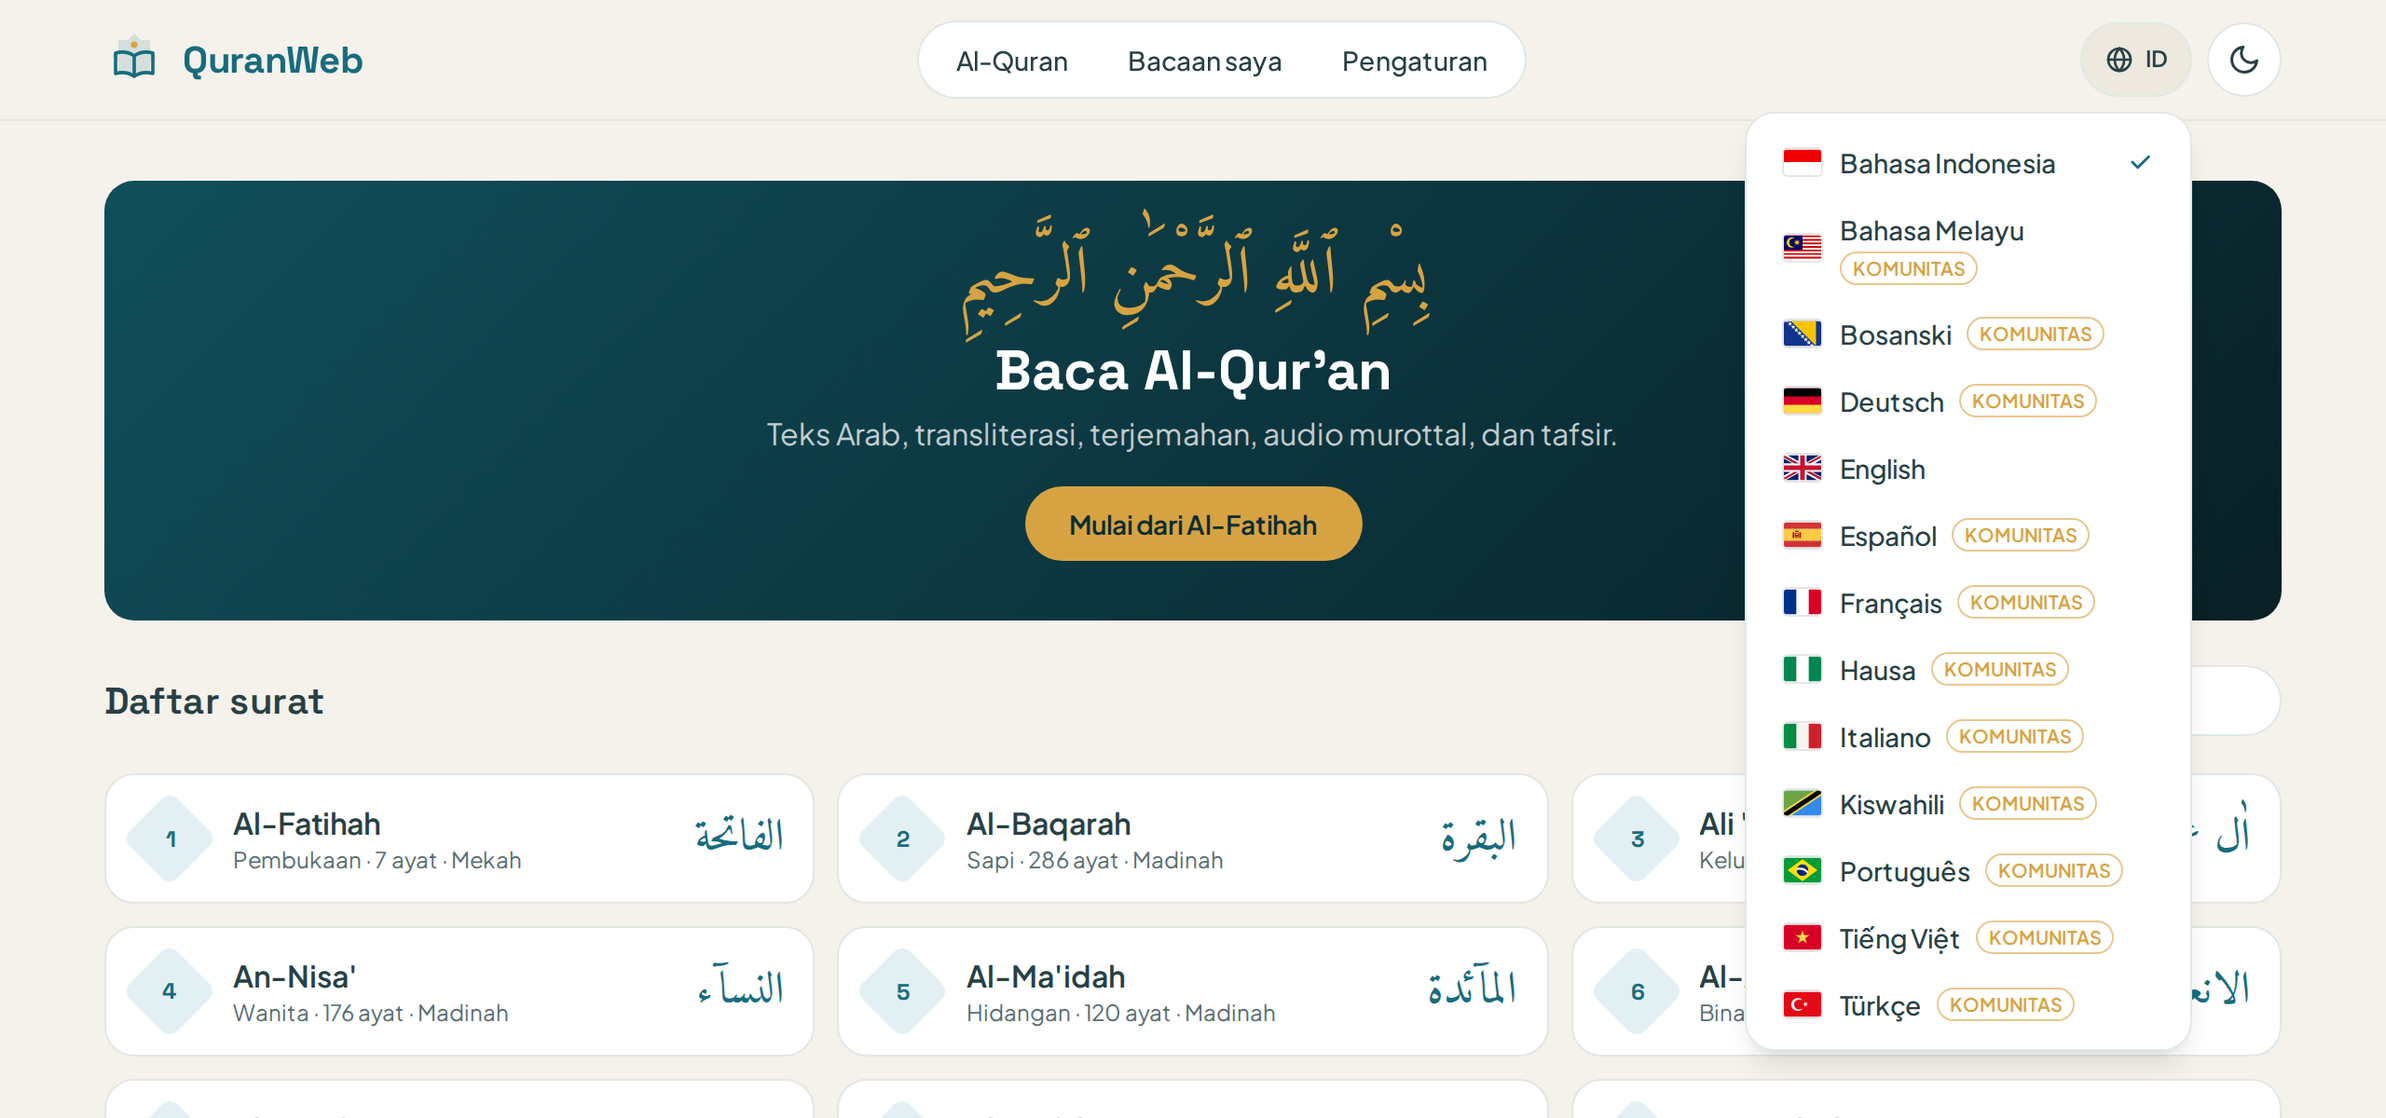
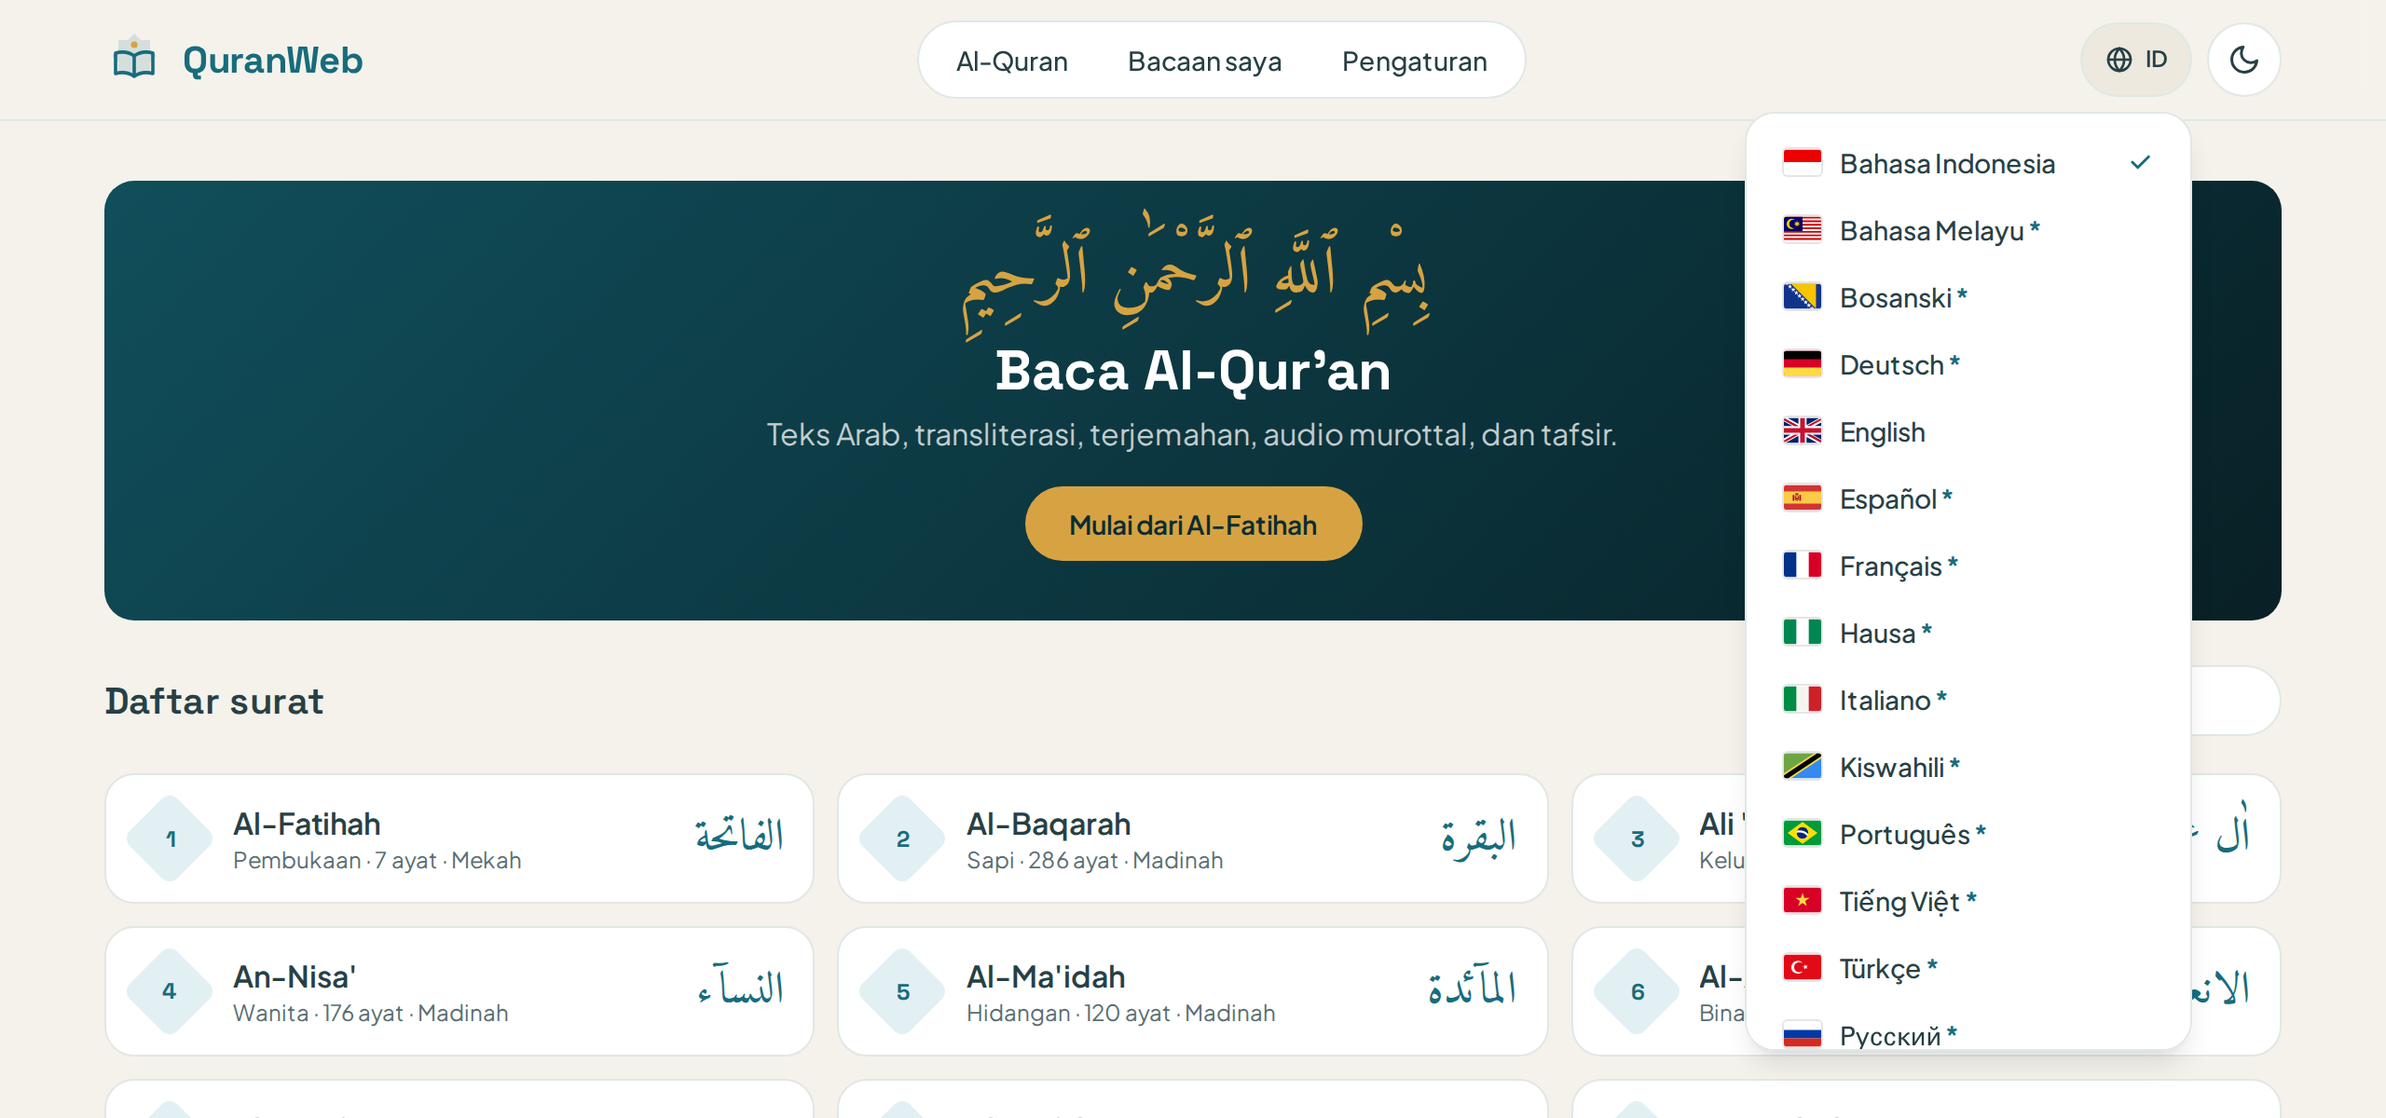
Mark community translations with an asterisk
The language menu and the settings list now put an asterisk after a
community translation instead of a "Community" badge, with a note under
the list saying what it means; screen readers still hear "Community".
The asterisk uses the primary colour, since gold is only 2.3:1 on white.

CONTRIBUTING.md gains "From community to official": why a review by a
speaker matters and what changes when a language is reviewed. The
READMEs point speakers to it.

Changed region(s): [[0.75, 0.185, 0.9062, 0.9558]]

diff --git a/src/components/LanguageMenu.tsx b/src/components/LanguageMenu.tsx
@@ -1,7 +1,7 @@
 "use client";
 
 import { useRouter } from "next/navigation";
-import { useCallback, useOptimistic, useRef, useState, useTransition } from "react";
+import { useCallback, useId, useOptimistic, useRef, useState, useTransition } from "react";
 import { writeCookie } from "@/lib/cookies";
 import { isCommunityLocale, LOCALE_COOKIE, LOCALE_NAMES, LOCALES_BY_NAME, reportTranslationUrl, type Locale } from "@/lib/i18n/config";
 import { useI18n } from "@/lib/i18n/client";
@@ -50,6 +50,7 @@ export default function LanguageMenu() {
   const box = useRef<HTMLDivElement>(null);
   const close = useCallback(() => setOpen(false), []);
   useDismiss(open, close, box);
+  const noteId = useId();
 
   return (
     <div ref={box} className="relative">
@@ -69,7 +70,7 @@ export default function LanguageMenu() {
       {open && (
         // Twenty-five languages are taller than a small phone screen, and the header is sticky, so the page cannot scroll the
         // bottom of the menu into view: the menu scrolls inside itself instead.
-        <div role="menu" aria-label={t("nav.language")} className="absolute end-0 top-full z-50 mt-2 max-h-[calc(100dvh-6rem)] w-60 overflow-y-auto overscroll-contain rounded-2xl border border-border bg-card p-2 shadow-lg">
+        <div role="menu" aria-label={t("nav.language")} aria-describedby={noteId} className="absolute end-0 top-full z-50 mt-2 max-h-[calc(100dvh-6rem)] w-60 overflow-y-auto overscroll-contain rounded-2xl border border-border bg-card p-2 shadow-lg">
           {languageOptions.map(({ code, name, community }) => (
             <button
               key={code}
@@ -82,24 +83,22 @@ export default function LanguageMenu() {
               }}
               className="flex w-full items-center justify-between gap-3 rounded-xl px-3 py-2 text-start text-sm font-medium hover:bg-background"
             >
-              {/* The badge goes to a second line when the name and the badge do not fit the menu (Bahasa Melayu with the
-                  Russian or French badge); the menu keeps its width so it stays on screen at 320px. */}
               <span className="flex items-center gap-2.5">
                 <LanguageFlag locale={code} />
-                <span className="flex flex-wrap items-center gap-x-2 gap-y-0.5">
-                {/* Only the name is in its own language: the badge is interface text (and `uppercase` follows the lang, so
-                    a Turkish lang on the whole item would write "COMMUNİTY"). */}
-                <span lang={code} translate="no" className="whitespace-nowrap">
-                  {name}
-                </span>
-                {community && (
-                  <span
-                    title={t("nav.communityTranslation")}
-                    className="whitespace-nowrap rounded-full border border-gold/60 px-1.5 text-[10px] font-semibold uppercase leading-4 text-gold"
-                  >
-                    {t("nav.communityBadge")}
+                {/* Only the name is in its own language; the asterisk marks a community translation (the note under the
+                    list explains it), and screen readers hear the word instead of "star". */}
+                <span className="whitespace-nowrap">
+                  <span lang={code} translate="no">
+                    {name}
                   </span>
-                )}
+                  {community && (
+                    <>
+                      <span aria-hidden="true" title={t("nav.communityTranslation")} className="ms-0.5 font-semibold text-primary">
+                        *
+                      </span>
+                      <span className="sr-only"> ({t("nav.communityBadge")})</span>
+                    </>
+                  )}
                 </span>
               </span>
               {code === current && (
@@ -109,13 +108,17 @@ export default function LanguageMenu() {
               )}
             </button>
           ))}
+          <p id={noteId} className="mt-1 border-t border-border px-3 pb-1 pt-3 text-xs leading-5 text-muted-foreground">
+            <span aria-hidden="true" className="font-semibold text-primary">* </span>
+            {t("nav.communityTranslation")}
+          </p>
           {isCommunityLocale(current) && (
             <a
               href={reportTranslationUrl(current)}
               target="_blank"
               rel="noopener noreferrer"
               onClick={close}
-              className="mt-1 block rounded-xl border-t border-border px-3 pb-2 pt-3 text-xs font-medium text-primary hover:underline"
+              className="block rounded-xl px-3 pb-2 pt-1 text-xs font-medium text-primary hover:underline"
             >
               {t("nav.reportTranslation")}
             </a>
@@ -140,11 +143,12 @@ export function LanguageSelect() {
       >
         {languageOptions.map(({ code, name, community }) => (
           <option key={code} value={code} lang={code} translate="no">
-            {community ? `${name} (${t("nav.communityBadge")})` : name}
+            {community ? `${name} *` : name}
           </option>
         ))}
       </select>
       <span className="text-xs text-muted-foreground">{t("display.languageHint")}</span>
+      <span className="text-xs text-muted-foreground">* {t("nav.communityTranslation")}</span>
     </label>
   );
 }

diff --git a/CONTRIBUTING.md b/CONTRIBUTING.md
@@ -44,6 +44,28 @@ as community translations (see Review). Turkish was translated by a reader.
 **The other twenty-two are first drafts made by Claude (an AI) at the owner's request**, published as community translations so that speakers can correct them: a review
 of one of them, even of a few messages, is very welcome, and a reviewer can become that language's maintainer.
 
+### From community to official: why your review matters
+
+Twenty-three of the 25 interface languages are community translations, marked with an asterisk (*) in the language menu;
+a note under the list explains it. Twenty-two of them are drafts by an AI that no speaker of the language has read yet.
+They can have a wrong word, a sentence that reads like a machine wrote it, or a term your community writes differently.
+On a site where people read the Qur'an, that matters: the interface is how a reader finds a surah, starts the recitation,
+marks their progress, and learns what happens to their data. Until a speaker has checked it, the privacy policy in that
+language is not binding either: the page says that the English and Indonesian versions apply.
+
+Your review is what makes a community translation official. You do not need to translate anything from scratch: read the
+language as a reader would, and fix what reads wrong. A review of a few screens already helps.
+
+1. **Read it.** Choose your language in the menu at the top of the site, and go through the pages you use. The messages are
+   also in one file, `src/lib/i18n/messages/<code>.ts` (for example `de.ts`), next to the English source `en.ts`.
+2. **Fix it.** Open a pull request with your corrections (see "How to translate" below). Not on GitHub with code? Use
+   "Report a translation mistake" at the bottom of the language menu while your language is chosen; it opens an issue with
+   the language filled in.
+3. **It becomes official.** When a speaker has reviewed the whole catalog, the owner removes the language from
+   `COMMUNITY_LOCALES` in `src/lib/i18n/config.ts`: the asterisk goes, the privacy page drops its note, and the reviewer
+   is listed as the language's maintainer in [.github/CODEOWNERS](.github/CODEOWNERS), so later changes to that language go
+   through them. Your name is added to `CONTRIBUTORS.md`.
+
 **Only the interface is translated this way, never the Qur'an.** Translations of the meaning of the Qur'an and tafsir
 come only from verified, published sources and are chosen by the reader as editions. A pull request that adds or changes
 Qur'an content as part of a translation is not accepted.
@@ -86,8 +108,8 @@ A translation is published only after another speaker of the language has review
    maintainers, listed in [.github/CODEOWNERS](.github/CODEOWNERS); GitHub asks them to review every change to their
    catalog. The project owner merges after their approval.
 3. **A new language with no maintainer yet** stays open until someone else who speaks it has reviewed it, or the owner
-   may decide to publish it as a **community translation**: the language menu marks it ("Community") and offers a link to
-   report a mistake (`COMMUNITY_LOCALES` in `src/lib/i18n/config.ts`). The label is removed once a second speaker has
-   reviewed it. The first contributor of a language becomes its maintainer once their work has been reviewed by someone else.
+   may decide to publish it as a **community translation**: the language menu marks it with an asterisk (*), explained in
+   a note under the list, and offers a link to report a mistake (`COMMUNITY_LOCALES` in `src/lib/i18n/config.ts`). The
+   asterisk is removed once a second speaker has reviewed it (see "From community to official"). The first contributor of a language becomes its maintainer once their work has been reviewed by someone else.
 
 The Indonesian catalog (`messages/id.ts`) is maintained by @udienz.

diff --git a/README.id.md b/README.id.md
@@ -31,8 +31,8 @@ menurut Cloudflare tidak memasang kuki dan tidak mengenali Anda (lihat kebijakan
 - **Memasang target harian** (ayat per hari), menjaga runtutan, dan melihat progres menuju khatam. ([caranya](#memasang-target-harian))
 - **Memakai bahasa Anda**: antarmuka tersedia dalam 25 bahasa (daftarnya di bagian [Bahasa](#bahasa)); Urdu, Arab, dan
   Persia dibaca dari kanan ke kiri. Selain bahasa Indonesia dan Inggris, semuanya terjemahan komunitas yang belum diperiksa
-  penutur kedua (bahasa Turki diterjemahkan seorang pembaca, dua puluh dua lainnya draf awal oleh Claude, sebuah AI), jadi
-  masing-masing punya tautan untuk melaporkan kesalahan. Setiap bahasa menampilkan terjemahan dan tafsir dalam bahasa itu
+  penutur kedua (bahasa Turki diterjemahkan seorang pembaca, dua puluh dua lainnya draf awal oleh Claude, sebuah AI). Menu
+  menandainya dengan tanda bintang (*) dan sebuah catatan, dan masing-masing punya tautan untuk melaporkan kesalahan. Setiap bahasa menampilkan terjemahan dan tafsir dalam bahasa itu
   sebagai bawaan, atau dalam bahasa Inggris bila sumber kami tidak punya. Bahasanya mengikuti browser Anda sampai Anda
   memilih sendiri di header atau halaman Pengaturan. Saat Anda masuk, pilihan Anda ikut akun. ([caranya](#mengganti-bahasa))
 - **Membuatnya nyaman dibaca**: tema terang, gelap, atau otomatis, serta huruf Arab dan Latin yang bisa diperbesar atau
@@ -81,6 +81,11 @@ berbahasa Inggris: sel itu bertuliskan "Inggris".
 | 日本語 (Jepang) | Saeed Sato | Al-Mukhtasar |
 
 Kecuali tabel menyebut lain, terjemahan atau tafsir itu berbahasa sesuai barisnya.
+
+Semua bahasa selain Bahasa Indonesia dan English adalah terjemahan komunitas, ditandai tanda bintang (*) di menu: belum
+ada penutur kedua yang meninjaunya. Kalau Anda menguasai salah satunya, tinjauan Anda adalah bantuan yang paling berguna,
+karena tinjauan itulah yang menjadikan bahasa tersebut resmi. Caranya ada di [CONTRIBUTING.md](CONTRIBUTING.md) (dalam
+bahasa Inggris), bagian "From community to official".
 
 ## Cara memakai
 
@@ -175,7 +180,7 @@ Gambar di bagian atas halaman ini adalah tampilan mushaf.
 
 ### Mengganti bahasa
 
-![Menu bahasa terbuka di header: bahasa diurutkan menurut abjad nama bahasa itu sendiri, masing-masing dengan bendera (Bahasa Indonesia, Bahasa Melayu, Bosanski, Deutsch, English, dan seterusnya), terjemahan komunitas bertanda Komunitas](docs/screenshots/id/how-language.png)
+![Menu bahasa terbuka di header: bahasa diurutkan menurut abjad nama bahasa itu sendiri, masing-masing dengan bendera (Bahasa Indonesia, Bahasa Melayu, Bosanski, Deutsch, English, dan seterusnya), terjemahan komunitas bertanda bintang](docs/screenshots/id/how-language.png)
 
 Tekan tombol bola dunia di atas (bertuliskan kode bahasa yang sedang dipakai, misalnya ID atau EN) dan pilih bahasa, atau pakai "Bahasa antarmuka" di halaman
 Pengaturan. Bahasa diurutkan menurut abjad nama bahasa itu sendiri, masing-masing dengan benderanya; menunya bisa digulir

diff --git a/README.md b/README.md
@@ -31,8 +31,8 @@ according to Cloudflare, sets no cookies and does not identify you (see the priv
 - **Set a daily goal** (verses a day), keep a streak going, and see your progress towards a khatam. ([how](#set-a-daily-goal))
 - **Use it in your language**: the interface is in 25 languages (the list is under [Languages](#languages)); Urdu, Arabic
   and Persian read right to left. Apart from Indonesian and English they are community translations, not yet checked by a
-  second speaker (Turkish was translated by a reader, the other twenty-two are first drafts by Claude, an AI), so each has a
-  link to report a mistake. Each language shows a translation and a tafsir in that language by default, or in English when
+  second speaker (Turkish was translated by a reader, the other twenty-two are first drafts by Claude, an AI). The menu
+  marks them with an asterisk (*) and a note, and each has a link to report a mistake. Each language shows a translation and a tafsir in that language by default, or in English when
   our sources have none. The site follows your browser's language until you pick one in the header or on the Settings page.
   When you are signed in, your choice follows you. ([how](#change-the-language))
 - **Make it comfortable**: a light, dark or automatic theme, and larger or smaller Arabic and Latin text, each on its
@@ -79,6 +79,10 @@ our sources have no translation or no tafsir in a language, the site shows the E
 | 日本語 (Japanese) | Saeed Sato | Al-Mukhtasar |
 
 Unless the table says otherwise, a translation or tafsir is in the language of its row.
+
+Every language except Bahasa Indonesia and English is a community translation, marked with an asterisk (*) in the menu:
+no second speaker has reviewed it yet. If you speak one of them, a review is the most useful help you can give; it is what
+makes the language official. [CONTRIBUTING.md](CONTRIBUTING.md), "From community to official", explains how.
 
 ## How to
 
@@ -171,7 +175,7 @@ The picture at the top of this page is the mushaf layout.
 
 ### Change the language
 
-![The language menu open in the header: languages in alphabetical order by their own names, each with a flag (Bahasa Indonesia, Bahasa Melayu, Bosanski, Deutsch, English and more), community translations marked Community](docs/screenshots/en/how-language.png)
+![The language menu open in the header: languages in alphabetical order by their own names, each with a flag (Bahasa Indonesia, Bahasa Melayu, Bosanski, Deutsch, English and more), community translations marked with an asterisk](docs/screenshots/en/how-language.png)
 
 Press the globe button at the top (it shows the code of the current language, such as EN or FR) and pick a language, or use "Interface language" on the
 Settings page. The languages are in alphabetical order of their own names, each with a flag; the menu scrolls when it is

diff --git a/CLAUDE.md b/CLAUDE.md
@@ -219,7 +219,9 @@ language with its default translation and tafsir (section "Languages"): update t
   flags (an `<option>` cannot hold an image).
 - **Community translations** (`COMMUNITY_LOCALES` in `config.ts`): a language not yet reviewed by a speaker (the owner's
   decision, 2026-11-18, for Turkish, translated by a reader; and 2026-11-21 for the twenty-two others, first drafts by Claude at
-  the owner's request) is marked "Community" in the language menu and the settings list, its privacy
+  the owner's request) is marked with an asterisk after its name in the language menu and the settings list (the owner's choice, 2026-11-21,
+  replacing a "Community" badge; screen readers hear "(Community)" instead of "star"), with a note under the list that the
+  asterisk means a community translation not yet reviewed (`nav.communityTranslation`), its privacy
   page says that the English and Indonesian versions apply where the translation differs (`privacy.translationNote`), and the menu offers "Report a translation mistake" (a new GitHub issue with the language in the title) while
   that language is the current one. `tr` is already listed, so the label appears together with the language. Remove a
   language from the list once it has been reviewed and has a maintainer in `.github/CODEOWNERS`.

diff --git a/docs/DESIGN.md b/docs/DESIGN.md
@@ -283,8 +283,9 @@ Changing it would be a redesign of every title and badge, with new screenshots, 
 - Wordmark 20px `Space Grotesk` 700, -0.5px tracking, in `#176c7d`, next to the book logo
 - Right side: language menu, theme toggle, account menu: 40px round buttons, 1px `#e0e8e4` border on `#ffffff`, hover `#ede9de`
 - Language menu: 240px wide, scrolls inside itself; languages in alphabetical order of their own names, each with a 20×14px
-  flag (inline SVG, 2px radius, a 1px ring at 10% black so white flags stay visible) before the name, and the
-  "Community" badge after it
+  flag (inline SVG, 2px radius, a 1px ring at 10% black so white flags stay visible) before the name; a community
+  translation has an asterisk after the name in `#176c7d` (gold `#d7a342` is only 2.3:1 on white), explained by a 12px
+  note in `--muted-foreground` under the list
 - Use: every page
 
 **Surah List (side panel)**
